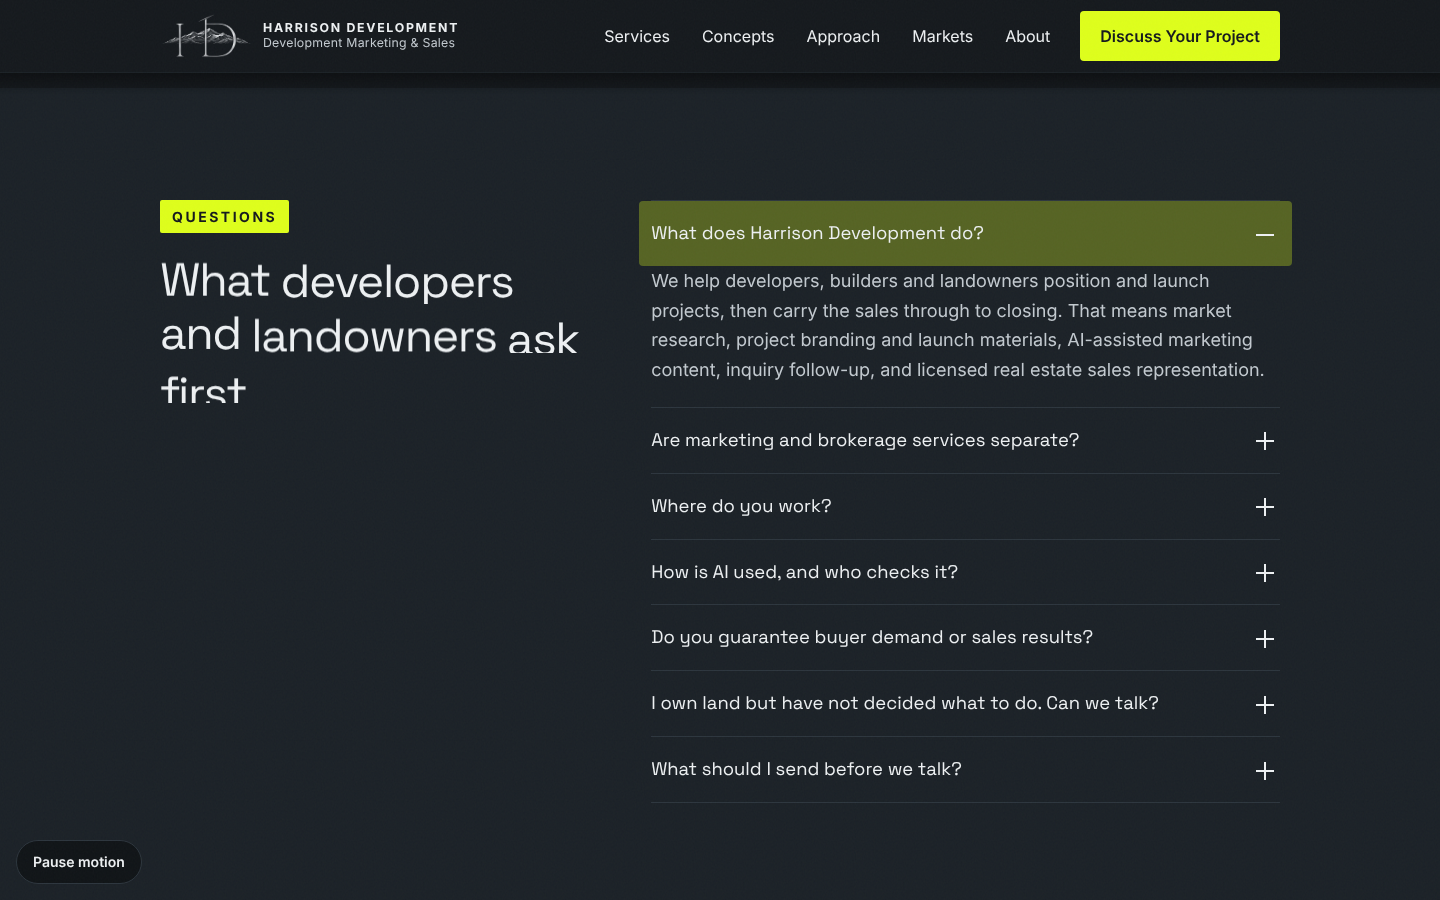
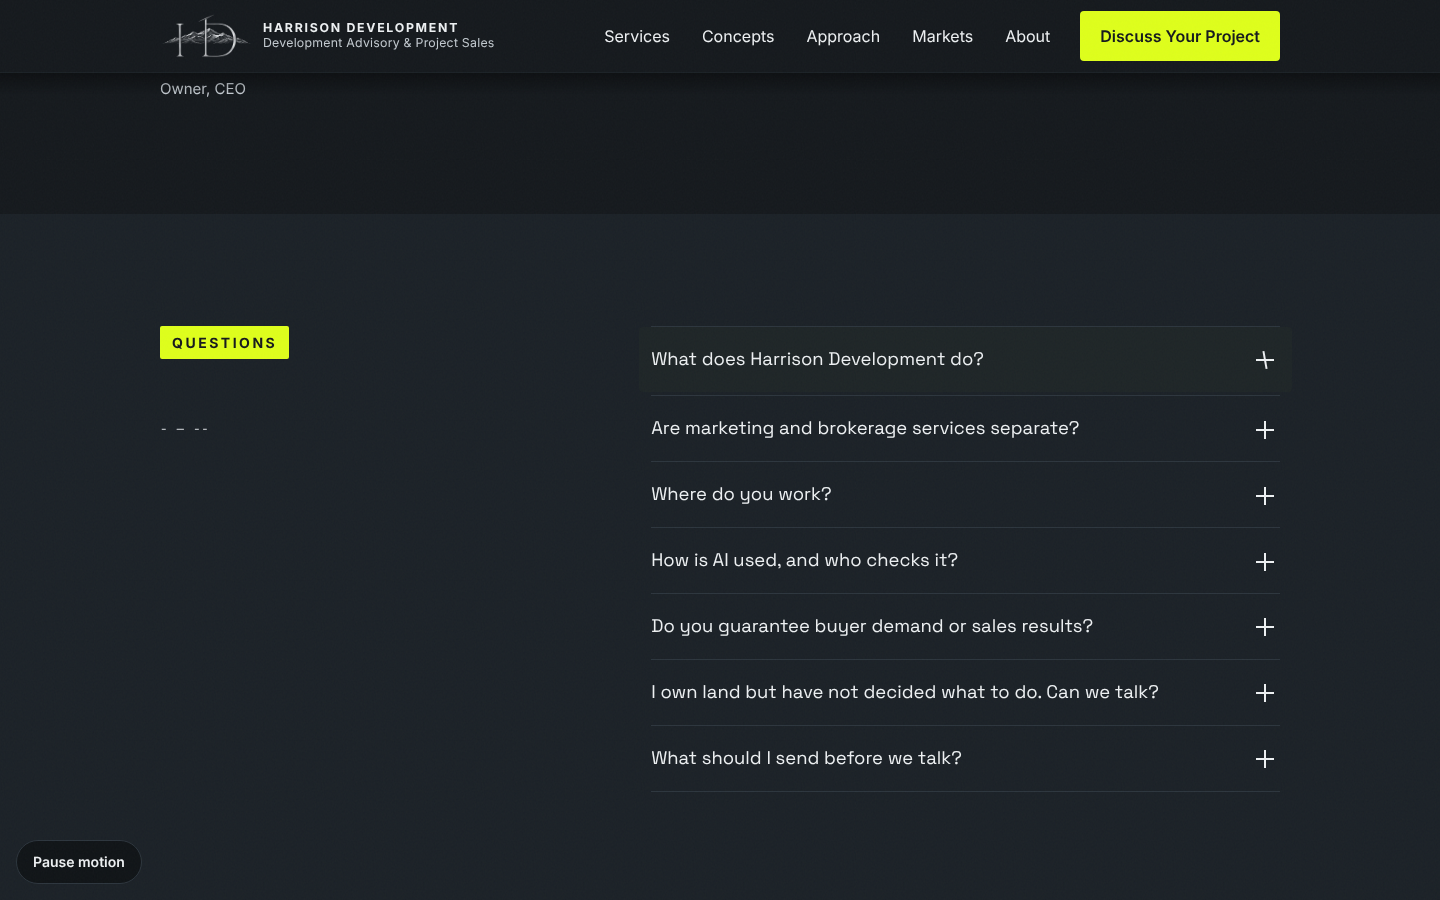
Harrison Development: developer-industry wording (advisory and project sales)
Descriptor, titles, hero, services and supporting lines move from
'marketing and sales' to 'Development Advisory & Project Sales' and
'from site to sell-out', at Charles's choice. Logo image unchanged.

Claude-Session: https://claude.ai/code/session_01TJfZ6ShE5n8RWED6LH9jnt

diff --git a/harrison-development/index.html b/harrison-development/index.html
@@ -3,19 +3,19 @@
 <head>
   <meta charset="utf-8">
   <meta name="viewport" content="width=device-width, initial-scale=1">
-  <title>Harrison Development | Development Marketing &amp; Sales, Colorado</title>
-  <meta name="description" content="Development marketing and licensed real estate sales for developers, builders and landowners across Colorado, with a focus on the mountain markets. Mountain-market expertise. Intelligent marketing. Strategic sales.">
+  <title>Harrison Development | Development Advisory &amp; Project Sales, Colorado</title>
+  <meta name="description" content="Development advisory and licensed project sales for developers, builders and landowners across Colorado, from site to sell-out, with a focus on the mountain communities. Mountain-market expertise. Intelligent marketing. Strategic sales.">
   <!-- STAGING: remove this tag only during an authorized production launch. -->
   <meta name="robots" content="noindex, nofollow">
   <meta name="theme-color" content="#14181C">
   <meta property="og:type" content="website">
-  <meta property="og:title" content="Harrison Development | Development Marketing & Sales">
+  <meta property="og:title" content="Harrison Development | Development Advisory & Project Sales">
   <meta property="og:description" content="Mountain-market expertise. Intelligent marketing. Strategic sales. Serving developers, builders and landowners across Colorado.">
   <meta property="og:image" content="https://harrisondev.org/assets/brand/og-image.png">
   <meta property="og:url" content="https://harrisondev.org/">
   <meta name="twitter:card" content="summary_large_image">
   <link rel="canonical" href="https://harrisondev.org/">
-  <script type="application/ld+json">{"@context":"https://schema.org","@type":"ProfessionalService","name":"Harrison Development","description":"Development marketing and licensed real estate sales for developers, builders and landowners in Colorado, with a focus on the mountain markets.","url":"https://harrisondev.org/","logo":"https://harrisondev.org/assets/brand/official/hd-logo-horizontal.png","image":"https://harrisondev.org/assets/brand/og-image.png","telephone":"+1-970-904-0600","email":"charlesharrison@epique.me","areaServed":{"@type":"State","name":"Colorado"},"founder":{"@type":"Person","name":"Charles Harrison","jobTitle":"Owner, CEO"}}</script>
+  <script type="application/ld+json">{"@context":"https://schema.org","@type":"ProfessionalService","name":"Harrison Development","description":"Development advisory and licensed project sales for developers, builders and landowners in Colorado, from site to sell-out, with a focus on the mountain communities.","url":"https://harrisondev.org/","logo":"https://harrisondev.org/assets/brand/official/hd-logo-horizontal.png","image":"https://harrisondev.org/assets/brand/og-image.png","telephone":"+1-970-904-0600","email":"charlesharrison@epique.me","areaServed":{"@type":"State","name":"Colorado"},"founder":{"@type":"Person","name":"Charles Harrison","jobTitle":"Owner, CEO"}}</script>
   <link rel="icon" href="assets/brand/hd-favicon.svg" type="image/svg+xml">
   <link rel="preload" href="assets/fonts/inter-latin-wght-normal.woff2" as="font" type="font/woff2" crossorigin>
   <link rel="preload" href="assets/fonts/space-grotesk-latin-wght-normal.woff2" as="font" type="font/woff2" crossorigin>
@@ -34,7 +34,7 @@
         <img class="brand-mark" src="assets/brand/hd-logo-mark-light-transparent.png" alt="" width="105" height="53">
         <span class="brand-text">
           <span class="brand-name">Harrison Development</span>
-          <span class="brand-desc">Development Marketing &amp; Sales</span>
+          <span class="brand-desc">Development Advisory &amp; Project Sales</span>
         </span>
       </a>
       <button class="nav-toggle" id="navToggle" aria-expanded="false" aria-controls="siteNav">
@@ -61,9 +61,9 @@
       <div class="hero-glow" aria-hidden="true"></div>
       <div class="wrap hero-grid">
         <div class="hero-copy">
-          <p class="eyebrow hero-in" style="--d:0">Development Marketing &amp; Sales</p>
-          <h1 id="hero-title">Development marketing &amp; sales for Colorado&rsquo;s mountain markets.</h1>
-          <p class="lede hero-in" style="--d:6">From positioning and project branding to buyer follow-up and closing, work directly with Charles Harrison through every stage of your launch. A sales strategy from day one.</p>
+          <p class="eyebrow hero-in" style="--d:0">Development Advisory &amp; Project Sales</p>
+          <h1 id="hero-title">From site to sell-out in Colorado&rsquo;s mountain communities.</h1>
+          <p class="lede hero-in" style="--d:6">Positioning, launch and licensed sales for developers, builders and landowners, with Charles Harrison on your project from first plan to final closing.</p>
           <div class="cta-row hero-in" style="--d:7">
             <a class="btn btn-light magnetic" href="#contact">Discuss Your Project</a>
             <a class="btn btn-ghost" href="#concepts" data-concepts-link>Explore Our Work</a>
@@ -92,13 +92,13 @@
     </section>
 
     <div class="ticker" aria-hidden="true">
-      <div class="ticker-track"><span class="t">Development marketing</span><span class="sep">&#10022;</span><span class="t o">Licensed sales</span><span class="sep">&#10022;</span><span class="t">AI-powered launches</span><span class="sep">&#10022;</span><span class="t o">Colorado statewide</span><span class="sep">&#10022;</span><span class="t">Concept to closing</span><span class="sep">&#10022;</span><span class="t o">Mountain markets</span><span class="sep">&#10022;</span><span class="t">Development marketing</span><span class="sep">&#10022;</span><span class="t o">Licensed sales</span><span class="sep">&#10022;</span><span class="t">AI-powered launches</span><span class="sep">&#10022;</span><span class="t o">Colorado statewide</span><span class="sep">&#10022;</span><span class="t">Concept to closing</span><span class="sep">&#10022;</span><span class="t o">Mountain markets</span><span class="sep">&#10022;</span></div>
+      <div class="ticker-track"><span class="t">Development advisory</span><span class="sep">&#10022;</span><span class="t o">Licensed sales</span><span class="sep">&#10022;</span><span class="t">AI-powered launches</span><span class="sep">&#10022;</span><span class="t o">Colorado statewide</span><span class="sep">&#10022;</span><span class="t">Concept to closing</span><span class="sep">&#10022;</span><span class="t o">Mountain markets</span><span class="sep">&#10022;</span><span class="t">Development advisory</span><span class="sep">&#10022;</span><span class="t o">Licensed sales</span><span class="sep">&#10022;</span><span class="t">AI-powered launches</span><span class="sep">&#10022;</span><span class="t o">Colorado statewide</span><span class="sep">&#10022;</span><span class="t">Concept to closing</span><span class="sep">&#10022;</span><span class="t o">Mountain markets</span><span class="sep">&#10022;</span></div>
     </div>
 
     <section class="section value vband" aria-labelledby="value-title">
       <video class="vband-bg" data-bg muted loop playsinline preload="none" poster="assets/media/water-motion-poster.jpg" aria-hidden="true"><source data-src="assets/media/water-motion.mp4" type='video/mp4; codecs="avc1.640028"'><source data-src="assets/media/water-motion.webm" type="video/webm"></video>
       <div class="wrap split">
-        <h2 id="value-title" class="rv">A connected approach to marketing and sales.</h2>
+        <h2 id="value-title" class="rv">One connected path from site to sell-out.</h2>
         <div class="rv">
           <p class="lede-dark scrub">Strong marketing starts with understanding what buyers need. We connect market research, project presentation, inquiry follow-up, and licensed sales representation so your project has a clear path from initial interest to a closing conversation.</p>
           <p class="vband-credit">Footage animated from a photo by Jeffrey Beall, CC BY 4.0.</p>
@@ -121,35 +121,35 @@
     <section class="section section-tint" id="services" aria-labelledby="services-title">
       <div class="wrap">
         <p class="eyebrow eyebrow-dark rv">Services</p>
-        <h2 id="services-title" class="rv">Five services, one path from concept to closing.</h2>
+        <h2 id="services-title" class="rv">Five services, one path from site to sell-out.</h2>
         <ol class="services">
           <li data-media="assets/media/nottingham-lake-avon.webp" class="rv">
             <span class="num" aria-hidden="true">01</span>
-            <h3>Market Positioning</h3>
-            <p>Comparable sales, competitive research, buyer profiles, and pricing recommendations to inform your project&rsquo;s market strategy. This is marketing research, not an appraisal, engineering or entitlement service.</p>
+            <h3>Market &amp; Feasibility Insight</h3>
+            <p>Comparable sales, competitive research, buyer profiles, and pricing recommendations to inform your project&rsquo;s market strategy. This is market-side research, not an appraisal, engineering, financial feasibility or entitlement service.</p>
           <p class="deliv"><span>You get</span> Comparable-property research, a competitive overview, buyer profiles and a written positioning brief, with pricing recommendations within licensed scope.</p>
           </li>
           <li data-media="assets/media/dowd-junction-aerial.webp" class="rv">
             <span class="num" aria-hidden="true">02</span>
-            <h3>Project Branding &amp; Launch</h3>
+            <h3>Project Positioning &amp; Launch</h3>
             <p>A cohesive project identity, website, presentation materials, and launch plan built around the property and its intended buyers.</p>
           <p class="deliv"><span>You get</span> A project name and identity, a project website, a brochure or presentation, and a launch calendar.</p>
           </li>
           <li data-media="assets/media/water-motion.mp4" class="rv">
             <span class="num" aria-hidden="true">03</span>
-            <h3>AI-Enhanced Marketing</h3>
+            <h3>AI-Assisted Creative</h3>
             <p>Reviewed visual concepts, video, and campaign content that help communicate the project. Conceptual or AI-generated imagery is always labeled, and never implies unapproved features are actual or approved.</p>
           <p class="deliv"><span>You get</span> Reviewed renderings and visual concepts, short videos and reels, and campaign copy, each labeled where AI is used.</p>
           </li>
           <li data-media="assets/media/eagle-river-cottonwoods.webp" class="rv">
             <span class="num" aria-hidden="true">04</span>
-            <h3>Buyer Inquiry &amp; Follow-Up</h3>
+            <h3>Buyer Pipeline &amp; Reporting</h3>
             <p>Inquiry capture, organized follow-up, qualification, appointments, and useful feedback to the development team.</p>
           <p class="deliv"><span>You get</span> Inquiry capture, an organized follow-up plan, appointment setting, buyer feedback and a regular report to the development team.</p>
           </li>
           <li data-media="assets/media/eagle-river-minturn-close.webp" class="rv featured">
             <span class="num" aria-hidden="true">05</span>
-            <h3>Licensed Sales Representation</h3>
+            <h3>New-Development Sales</h3>
             <p>Showings, negotiations, contracts, and closing coordination through the brokerage arrangement described above. The sales side is what turns the marketing into closings.</p>
           <p class="deliv"><span>You get</span> Showings, negotiations, contracts and closing coordination, through Epique Realty.</p>
           </li>
@@ -164,7 +164,7 @@
         <h2 id="who-title" class="rv">Built for the people who bring projects to market.</h2>
         <dl class="who cards">
           <div class="rv card reveal" style="--img:url(../assets/media/minturn-cliffs.webp)"><dt>Developers</dt><dd>A dedicated partner for positioning, launch marketing, and sales.</dd></div>
-          <div class="rv card reveal" style="--img:url(../assets/media/nottingham-lake-avon.webp)"><dt>Builders</dt><dd>A coordinated marketing and sales plan for your next project.</dd></div>
+          <div class="rv card reveal" style="--img:url(../assets/media/nottingham-lake-avon.webp)"><dt>Builders</dt><dd>A coordinated launch and sales plan for your next project.</dd></div>
           <div class="rv card reveal" style="--img:url(../assets/media/eagle-river-cottonwoods.webp)"><dt>Landowners</dt><dd>An initial conversation about property goals, market context, and possible next steps.</dd></div>
         </dl>
         <p class="media-note who-credit">Photographs: Jeffrey Beall, CC BY 4.0, via Wikimedia Commons.</p>
@@ -183,7 +183,7 @@
           <li class="rv"><span class="num" aria-hidden="true">4</span><h3>Review and refine</h3><p>Use qualified inquiry and buyer feedback to improve the approach.</p></li>
         </ol>
         <p class="backdrop-credit">Cliffs above Minturn. Photo: Jeffrey Beall, CC BY 4.0.</p>
-        <p class="note-light rv">Marketing and sales inform each other: buyer questions, showing feedback, and inquiry patterns guide positioning and campaign revisions. AI assists with production and analysis. Charles, a licensed agent, reviews every output and manages client relationships and sales work personally.</p>
+        <p class="note-light rv">Launch and sales inform each other: buyer questions, showing feedback, and inquiry patterns guide positioning and campaign revisions. AI assists with production and analysis. Charles, a licensed agent, reviews every output and manages client relationships and sales work personally.</p>
       </div>
     </section>
 
@@ -399,7 +399,7 @@
         <div>
           <p class="eyebrow rv">Discuss Your Project</p>
           <h2 id="contact-title" class="rv">Have land, a project in planning, or new construction to sell?</h2>
-          <p class="lede rv">Let&rsquo;s discuss your project, your market, and the marketing and sales support you need.</p>
+          <p class="lede rv">Let&rsquo;s discuss your project, your market, and the advisory and sales support your project needs.</p>
 
           <div class="booking rv" id="booking">
             <h3>Request a project consultation</h3>
@@ -500,7 +500,7 @@
       <div>
         <img class="foot-logo" src="assets/brand/official/hd-logo-horizontal.png" alt="Harrison Development logo: an HD monogram over a mountain range. Development Marketing and Sales." width="1200" height="400" loading="lazy">
         <p class="foot-brand">Harrison Development</p>
-        <p>Development Marketing &amp; Sales</p>
+        <p>Development Advisory &amp; Project Sales</p>
         <p class="small-light">Mountain-market expertise. Intelligent marketing. Strategic sales.</p>
       </div>
       <div>

diff --git a/harrison-development/privacy.html b/harrison-development/privacy.html
@@ -14,7 +14,7 @@
     <div class="wrap header-row">
       <a class="brand" href="index.html" aria-label="Harrison Development, home">
         <img class="brand-mark" src="assets/brand/hd-logo-mark-light-transparent.png" alt="" width="105" height="53">
-        <span class="brand-text"><span class="brand-name">Harrison Development</span><span class="brand-desc">Development Marketing &amp; Sales</span></span>
+        <span class="brand-text"><span class="brand-name">Harrison Development</span><span class="brand-desc">Development Advisory &amp; Project Sales</span></span>
       </a>
     </div>
   </header>
@@ -41,7 +41,7 @@
       <p><a href="index.html">Back to the main page</a></p>
     </div>
   </main>
-  <footer class="site-footer"><div class="wrap"><p class="small-light">Harrison Development &middot; Development Marketing &amp; Sales</p></div></footer>
+  <footer class="site-footer"><div class="wrap"><p class="small-light">Harrison Development &middot; Development Advisory &amp; Project Sales</p></div></footer>
   <script src="js/config.js"></script>
   <script>
     (function(){var o=(window.HD_CONFIG||{}).operator||{};

diff --git a/harrison-development/concepts/dowd-junction/index.html b/harrison-development/concepts/dowd-junction/index.html
@@ -24,7 +24,7 @@
     <div class="wrap header-row">
       <a class="brand" href="../../" aria-label="Harrison Development, home">
         <img class="brand-mark" src="../../assets/brand/hd-logo-mark-light-transparent.png" alt="" width="105" height="53">
-        <span class="brand-text"><span class="brand-name">Harrison Development</span><span class="brand-desc">Development Marketing &amp; Sales</span></span>
+        <span class="brand-text"><span class="brand-name">Harrison Development</span><span class="brand-desc">Development Advisory &amp; Project Sales</span></span>
       </a>
       <a class="btn btn-light" href="../../#contact">Discuss Your Project</a>
     </div>

diff --git a/harrison-development/concepts/red-mountain-ranch/index.html b/harrison-development/concepts/red-mountain-ranch/index.html
@@ -24,7 +24,7 @@
     <div class="wrap header-row">
       <a class="brand" href="../../" aria-label="Harrison Development, home">
         <img class="brand-mark" src="../../assets/brand/hd-logo-mark-light-transparent.png" alt="" width="105" height="53">
-        <span class="brand-text"><span class="brand-name">Harrison Development</span><span class="brand-desc">Development Marketing &amp; Sales</span></span>
+        <span class="brand-text"><span class="brand-name">Harrison Development</span><span class="brand-desc">Development Advisory &amp; Project Sales</span></span>
       </a>
       <a class="btn btn-light" href="../../#contact">Discuss Your Project</a>
     </div>

diff --git a/harrison-development/js/config.js b/harrison-development/js/config.js
@@ -8,7 +8,7 @@
  */
 window.HD_CONFIG = {
   brandName: "Harrison Development",
-  descriptor: "Development Marketing & Sales",
+  descriptor: "Development Advisory & Project Sales",
   tagline: "Mountain-market expertise. Intelligent marketing. Strategic sales.",
 
   // Proposed attribution. Pending managing-broker review (see LAUNCH-CHECKLIST.md).

diff --git a/.claude/memory/harrison-development.md b/.claude/memory/harrison-development.md
@@ -41,3 +41,4 @@ Built 2026-11-08 in `harrison-development/` (static preview, not deployed).
 - Videos (2026-11-11): Charles supplied event footage (Drive folder 'Luxury Event Videos': Hero, House 1-3, Joybird). He is the man in the navy blazer, white shirt, sunglasses on his head; his wife is usually beside him (dark hair, black dress). Site uses assets/media/charles-reel.mp4 (About) and homes-reel.mp4 (video band, no people). Leave out other guests' close-ups, the Joybird/Halcyon signs, the Epique Estates sign, and house numbers. Contact-sheet timestamps from ffmpeg's fps filter were wrong on these files; use scene detection plus -ss seeks.
 - /elk page (2026-11-11): https://harrisondev.org/elk is a private client land-search page (buyer's-agent work), uploaded straight to the KV key `elk.html` and deliberately NOT in this public repo. Charles approved its Epique links (a one-page exception to NO WANDERING) and kept its "Epique Area Leader" card line; it also names Harrison Development and links to harrisondev.org. deploy.sh does not delete it. Its source is the Claude artifact Charles shared.
 - Brief upgrade (2026-11-12, Charles's "Claude Code Upgrade Brief"): work-first hero (Red Mountain Ranch concept preview, labeled), headline "Development marketing & sales for Colorado's mountain markets.", "Explore Our Work", a "You get" deliverables line per service, a sample weekly report (demonstration data, labeled), "Request a project consultation" (no booking link), shareable pages /concepts/red-mountain-ranch/ and /concepts/dowd-junction/ (homepage keeps everything; earlier he said no extra pages, so these are additive), canonical + JSON-LD + sitemap.xml, WebM fallbacks for the three videos (the "Unable to play media" report was a browser without H.264), brighter secondary text. Form now posts to the Worker's /api/inquiry (KV namespace harrison-development-inquiries, 12-month TTL, 5/hour rate limit); private reader at /inbox?key=INBOX_KEY (Worker secret, never in the repo). Email alerts need Cloudflare Email Routing (the session's API token lacks that permission). Indexing still OFF until Charles says go (noindex meta on every page + robots Disallow).
+- Wording (2026-11-12, Charles chose "Development advisory & sales"): descriptor "Development Advisory & Project Sales"; hero "From site to sell-out in Colorado's mountain communities."; services renamed Market & Feasibility Insight, Project Positioning & Launch, AI-Assisted Creative, Buyer Pipeline & Reporting, New-Development Sales. Reason: developer sites do not say "marketing and sales". The approved logo image still carries "Development Marketing & Sales"; do not alter the logo.
